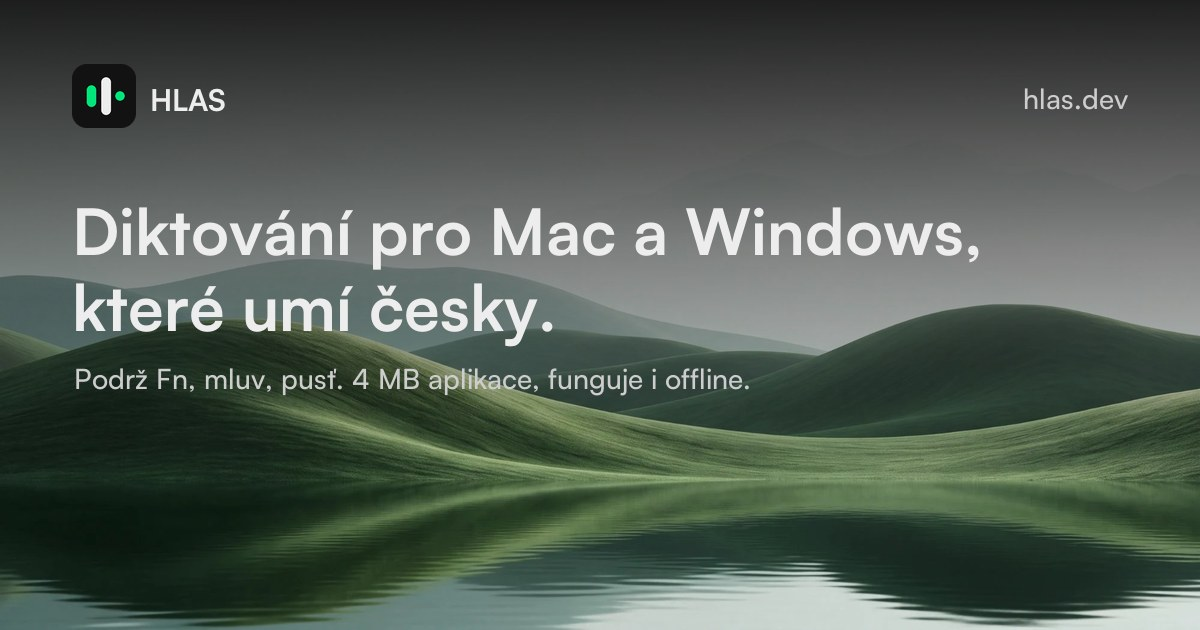
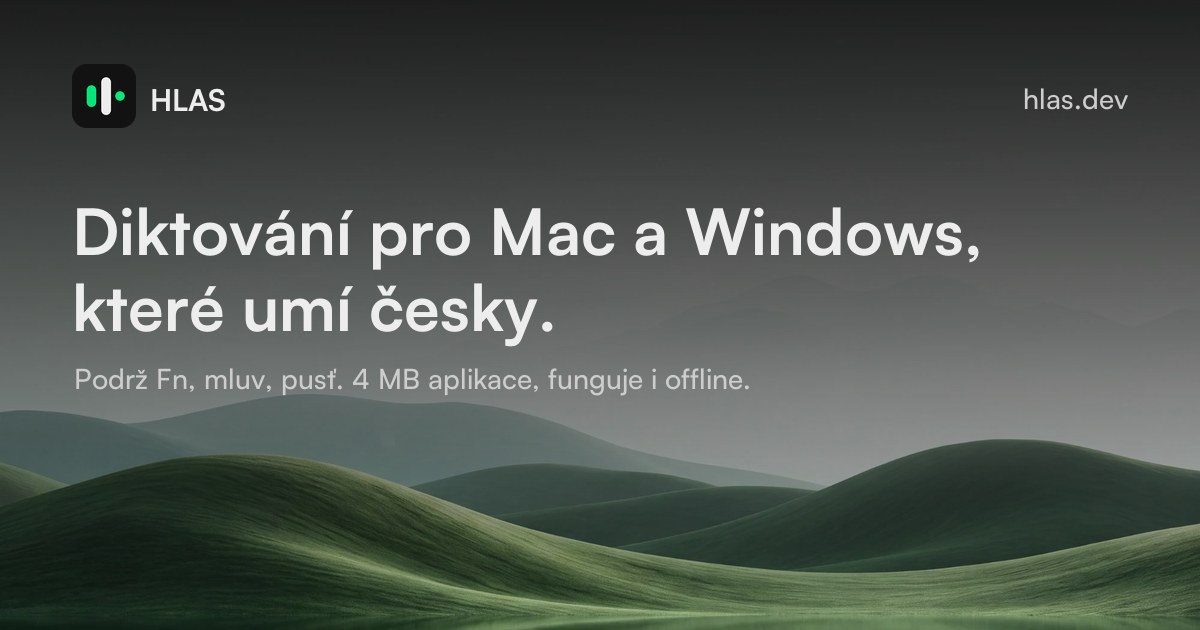
Web: Open Graph image with more sky

diff --git a/web/_src/make_icons.py b/web/_src/make_icons.py
@@ -38,11 +38,13 @@ def og(path: Path, headline: list[str], sub: str) -> None:
     photo = Image.open(WEB / "assets" / "hero.jpg").convert("RGB")
     scale = W / photo.width
     photo = photo.resize((W, round(photo.height * scale)), Image.LANCZOS)
-    im = photo.crop((0, photo.height - H, W, photo.height))  # hills at the bottom
+    # Mostly sky: start near the top of the photo so only the hill crests show at the bottom.
+    top = 40
+    im = photo.crop((0, top, W, top + H))
     veil = Image.new("RGBA", (W, H))
     vd = ImageDraw.Draw(veil)
     for y in range(H):  # dark top for the text, photo shows below
-        a = int(235 * max(0.0, 1 - y / (H * 0.78)) ** 0.9)
+        a = int(235 * max(0.0, 1 - y / (H * 0.98)) ** 0.6)
         vd.line((0, y, W, y), fill=(14, 14, 14, a))
     im = Image.alpha_composite(im.convert("RGBA"), veil)
     d = ImageDraw.Draw(im)
